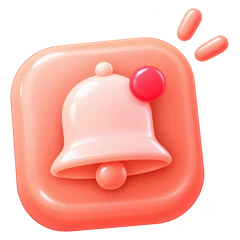
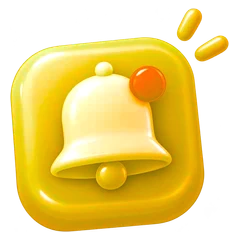
알림 종 그림을 밝은 금색으로(색만 바꿈), 알림 화면 강조색 금색, 스토어 스크린샷: 세금 신고일 장 복원 + 가족 행사 장 추가(9장), 계산기 스티커 문구

diff --git a/src/App.jsx b/src/App.jsx
@@ -5906,10 +5906,10 @@ export default function App() {
   if (screen.view === "alertSettings") {
     return (
       <Shell>
-        <HeroHeader icon={Bell} color="#E5674D" image={heroAlertImg} title="알림 설정" subtitle="마감일·세금 신고일·금리 발표일" headline="미리 알려드려요!" onBack={() => setScreen({ view: "home" })} />
+        <HeroHeader icon={Bell} color="#F2B705" image={heroAlertImg} title="알림 설정" subtitle="마감일·세금 신고일·금리 발표일" headline="미리 알려드려요!" onBack={() => setScreen({ view: "home" })} />
         <div className="rounded-[20px] overflow-hidden" style={CARD}>
           {[
-            { key: "deadline", img: "bell", icon: Bell, color: "#E5674D", bg: "#FDEEE9", title: "지원금 마감 알림", sub: "즐겨찾기에서 🔔 켠 지원금", on: notifyEnabled, toggle: toggleNotifyEnabled },
+            { key: "deadline", img: "bell", icon: Bell, color: "#E8A800", bg: "#FFF6D1", title: "지원금 마감 알림", sub: "즐겨찾기에서 🔔 켠 지원금", on: notifyEnabled, toggle: toggleNotifyEnabled },
             { key: "tax", img: "taxcal", icon: CalendarCheck, color: "#2C9F6B", bg: "#E7F7EF", title: "세금 신고·납부일 알림", sub: "부가세·종합소득세 등", on: taxAlertOn, toggle: toggleTaxAlert },
             { key: "rate", img: "bank", icon: Landmark, color: BLUE, bg: BLUE_SOFT, title: "금리 발표일 알림", sub: "한국은행 기준금리 발표 당일", on: rateAlertOn, toggle: toggleRateAlert },
           ].map((r, i) => (
